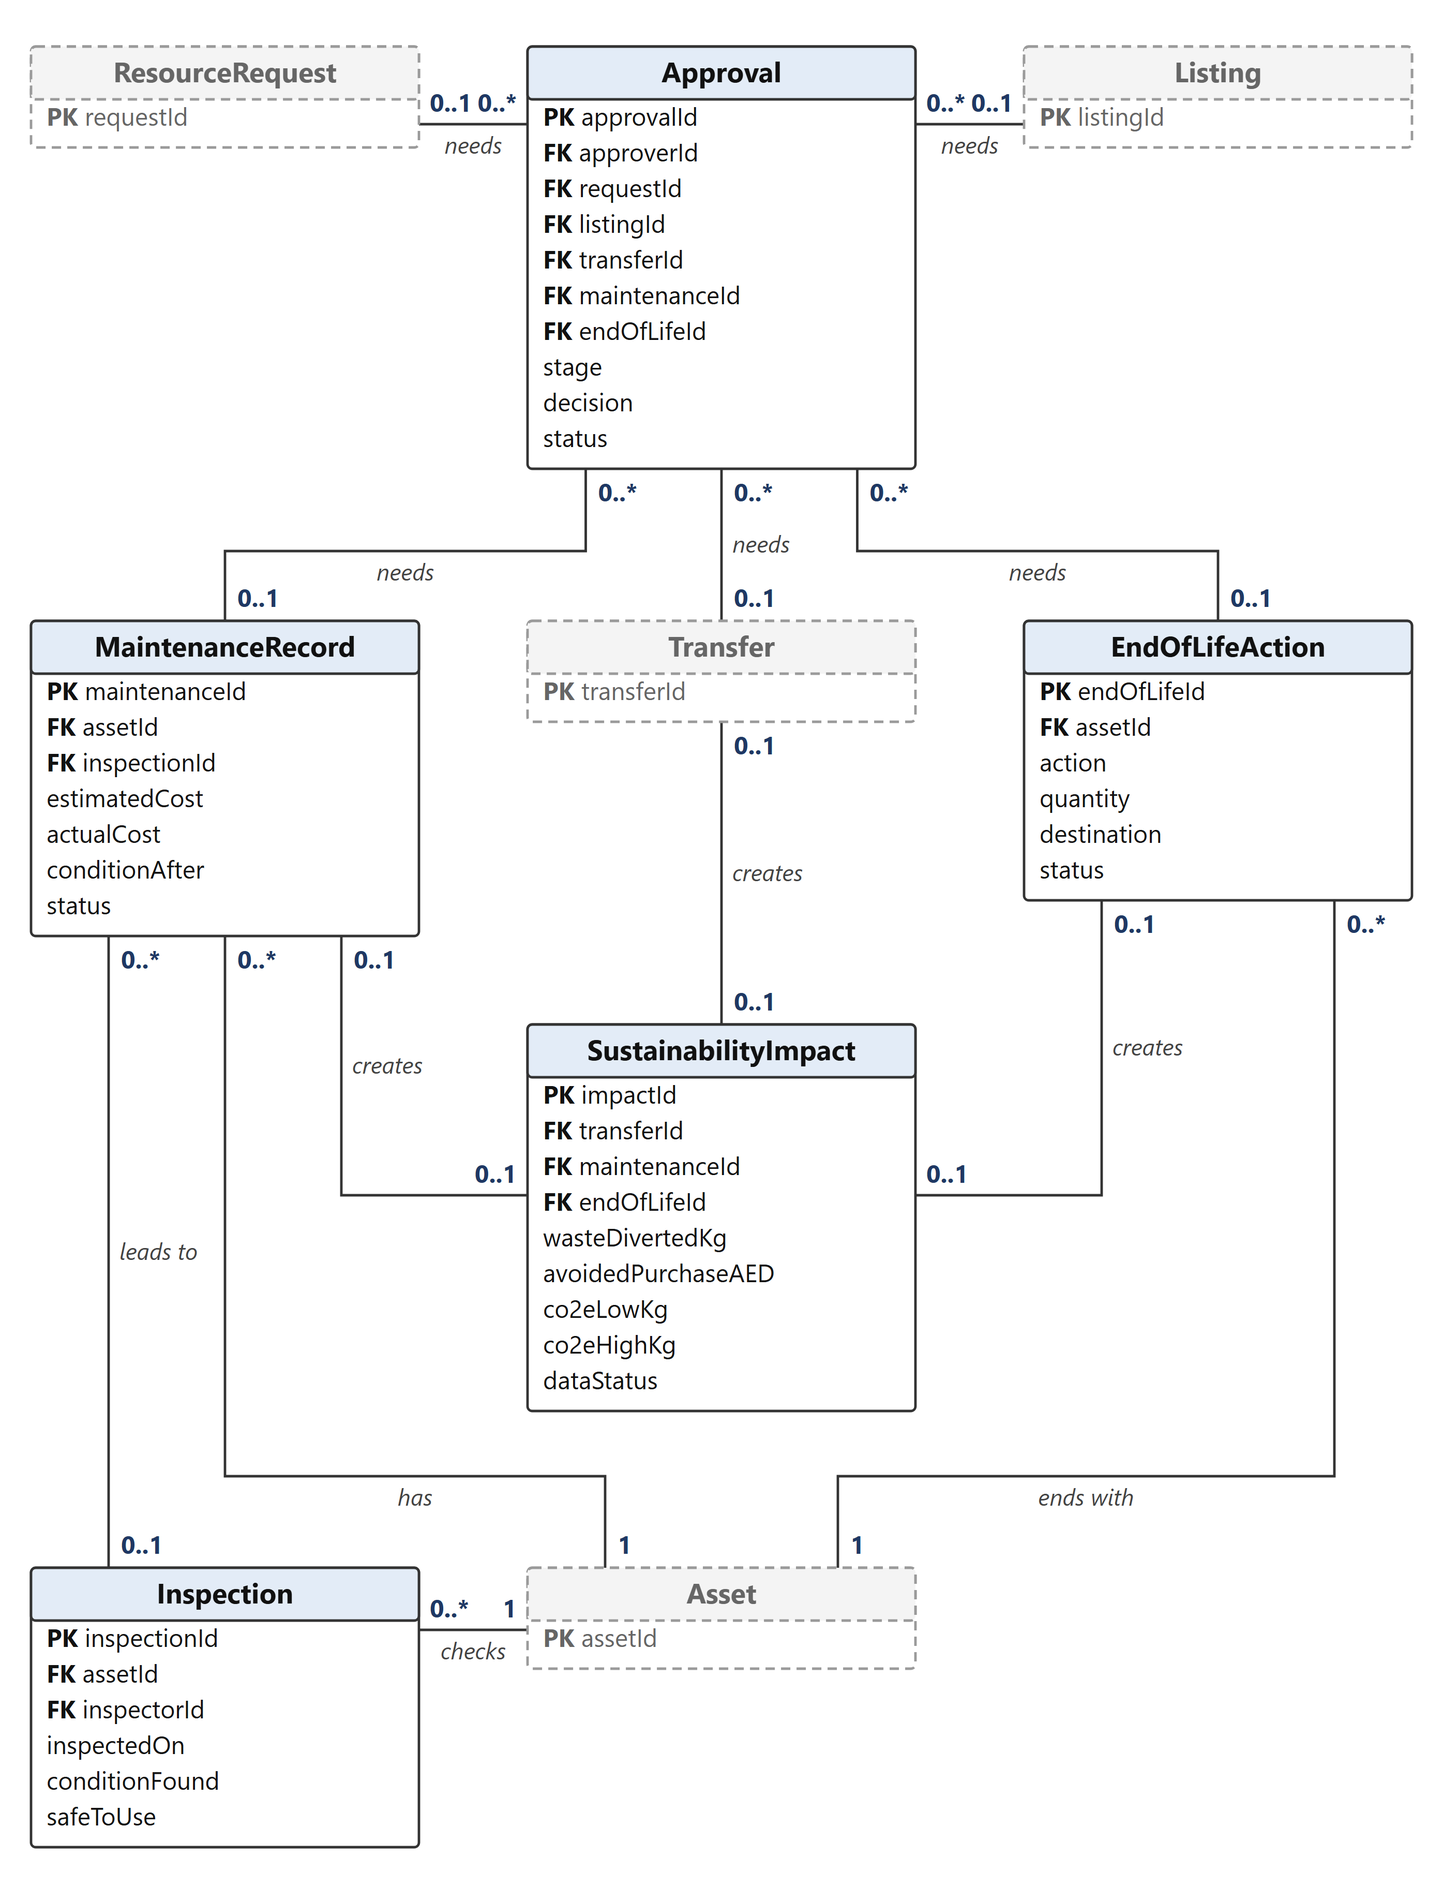
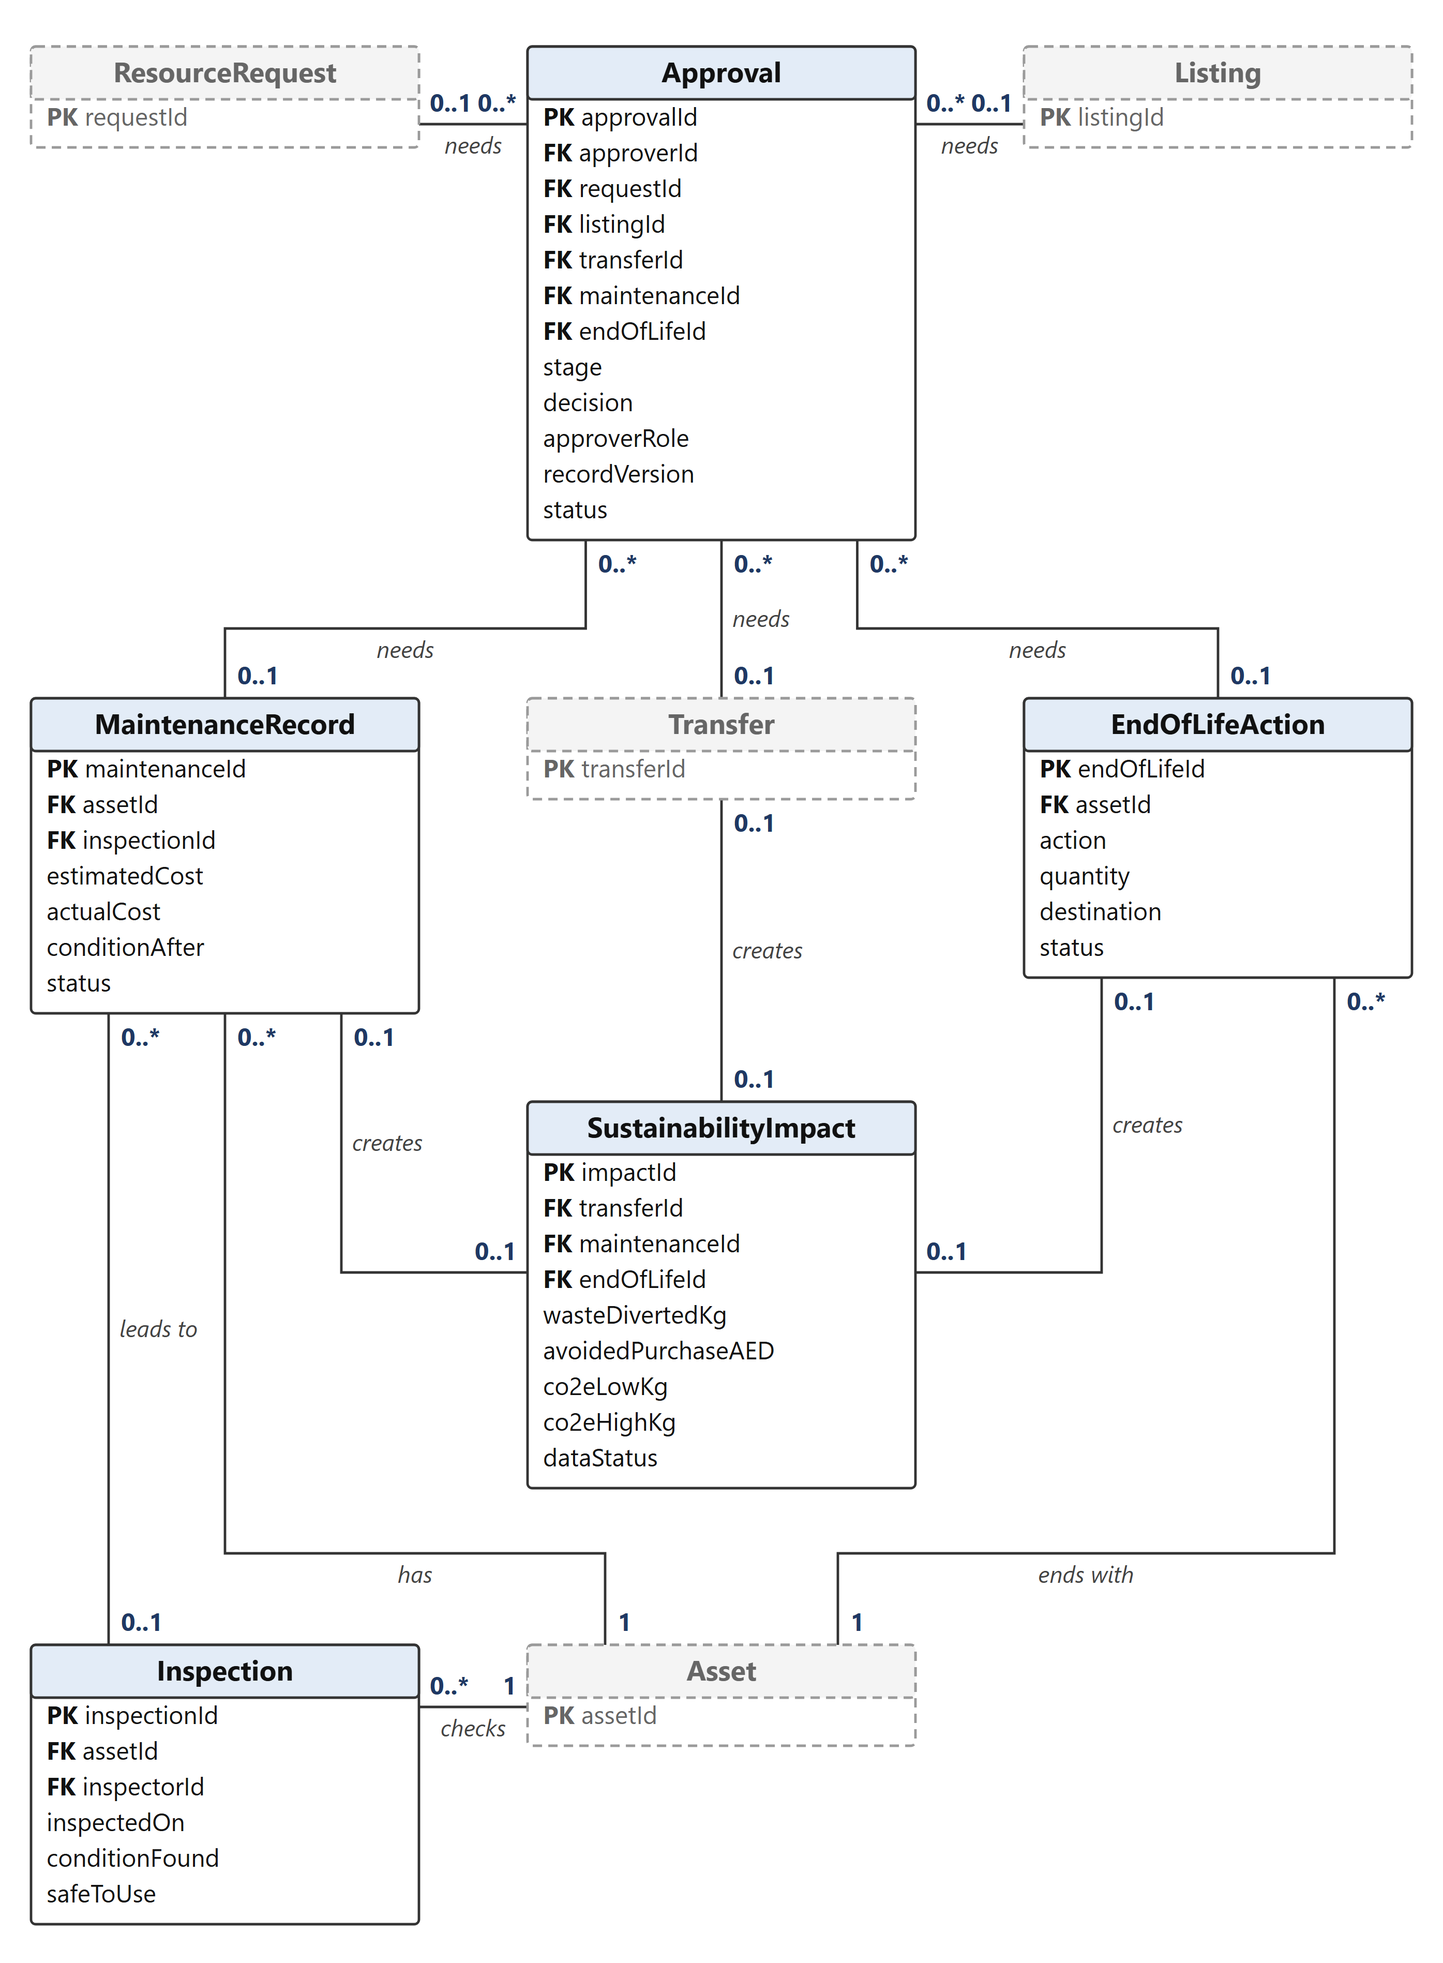
docs(phase45): add the missing data fields to the ER design (section 8)

diff --git a/docs/phase45/diagrams/er-diagrams.js b/docs/phase45/diagrams/er-diagrams.js
@@ -129,7 +129,7 @@ const ref = (name, x, y, pk, w) => box(name, x, y, ["PK " + pk], { ref: true, w 
   const A = ref("Asset", K4, 30, "assetId", WW);
   const N = box("Notification", K1, 300, ["PK notificationId", "FK userId", "recordType", "recordId", "message", "sentAt", "readAt"], { w: WW });
   const U = box("User", K2, 300, ["PK userId", "FK departmentId", "name", "email", "accountStatus"], { w: WW });
-  const AL = box("AuditLog", K1, 640, ["PK auditId", "FK userId", "action", "recordType", "recordId", "createdAt"], { w: WW });
+  const AL = box("AuditLog", K1, 640, ["PK auditId", "FK userId", "role", "action", "recordType", "recordId", "beforeValue", "afterValue", "reason", "createdAt"], { w: WW });
   const R = ref("ResourceRequest", K2, 640, "requestId", WW);
   const T = ref("Transfer", K3, 640, "transferId", WW);
   const Ap = ref("Approval", K4, 640, "approvalId", WW);
@@ -150,7 +150,7 @@ const ref = (name, x, y, pk, w) => box(name, x, y, ["PK " + pk], { ref: true, w 
 
 // ---------- Figure 8.3: assets, requests and matching ----------
 {
-  const Cat = box("Category", C2, 30, ["PK categoryId", "name", "unit", "emissionFactor"]);
+  const Cat = box("Category", C2, 30, ["PK categoryId", "name", "unit", "emissionFactorLow", "emissionFactorHigh"]);
   const A = box("Asset", C1, 240, ["PK assetId", "FK ownerDepartmentId", "FK categoryId", "FK custodianId", "name", "condition", "status", "quantity", "location (composite)", "assetAge (derived)"]);
   const MV = box("ModelVersion", C2, 240, ["PK modelVersionId", "task", "modelName", "version"]);
   const R = box("ResourceRequest", C3, 240, ["PK requestId", "FK requesterId", "FK categoryId", "quantity", "requiredBy", "status"]);
@@ -176,28 +176,28 @@ const ref = (name, x, y, pk, w) => box(name, x, y, ["PK " + pk], { ref: true, w 
 // ---------- Figure 8.4: approvals, maintenance and end of life ----------
 {
   const R = ref("ResourceRequest", C1, 30, "requestId");
-  const Ap = box("Approval", C2, 30, ["PK approvalId", "FK approverId", "FK requestId", "FK listingId", "FK transferId", "FK maintenanceId", "FK endOfLifeId", "stage", "decision", "status"]);
+  const Ap = box("Approval", C2, 30, ["PK approvalId", "FK approverId", "FK requestId", "FK listingId", "FK transferId", "FK maintenanceId", "FK endOfLifeId", "stage", "decision", "approverRole", "recordVersion", "status"]);
   const L = ref("Listing", C3, 30, "listingId");
-  const MR = box("MaintenanceRecord", C1, 400, ["PK maintenanceId", "FK assetId", "FK inspectionId", "estimatedCost", "actualCost", "conditionAfter", "status"]);
-  const T = ref("Transfer", C2, 400, "transferId");
-  const EL = box("EndOfLifeAction", C3, 400, ["PK endOfLifeId", "FK assetId", "action", "quantity", "destination", "status"]);
-  const SI = box("SustainabilityImpact", C2, 660, ["PK impactId", "FK transferId", "FK maintenanceId", "FK endOfLifeId", "wasteDivertedKg", "avoidedPurchaseAED", "co2eLowKg", "co2eHighKg", "dataStatus"]);
-  const I = box("Inspection", C1, 1010, ["PK inspectionId", "FK assetId", "FK inspectorId", "inspectedOn", "conditionFound", "safeToUse"]);
-  const A = ref("Asset", C2, 1010, "assetId");
+  const MR = box("MaintenanceRecord", C1, 450, ["PK maintenanceId", "FK assetId", "FK inspectionId", "estimatedCost", "actualCost", "conditionAfter", "status"]);
+  const T = ref("Transfer", C2, 450, "transferId");
+  const EL = box("EndOfLifeAction", C3, 450, ["PK endOfLifeId", "FK assetId", "action", "quantity", "destination", "status"]);
+  const SI = box("SustainabilityImpact", C2, 710, ["PK impactId", "FK transferId", "FK maintenanceId", "FK endOfLifeId", "wasteDivertedKg", "avoidedPurchaseAED", "co2eLowKg", "co2eHighKg", "dataStatus"]);
+  const I = box("Inspection", C1, 1060, ["PK inspectionId", "FK assetId", "FK inspectorId", "inspectedOn", "conditionFound", "safeToUse"]);
+  const A = ref("Asset", C2, 1060, "assetId");
   const sib = bottom(SI) + 42;
   svg("erd-approvals-lifecycle.svg", 930, bottom(I) + 25, [R, Ap, L, MR, T, EL, SI, I, A], [
     { a: "ResourceRequest", as: "right", af: { abs: 80 }, b: "Approval", bs: "left", bf: { abs: 80 }, ca: "0..1", cb: "0..*", name: "needs" },
     { a: "Listing", as: "left", af: { abs: 80 }, b: "Approval", bs: "right", bf: { abs: 80 }, ca: "0..1", cb: "0..*", name: "needs" },
     { a: "Transfer", as: "top", af: 0.5, b: "Approval", bs: "bottom", bf: 0.5, ca: "0..1", cb: "0..*", name: "needs" },
-    { a: "MaintenanceRecord", as: "top", af: 0.5, b: "Approval", bs: "bottom", bf: 0.15, mid: 355, ca: "0..1", cb: "0..*", name: "needs", seg: 1 },
-    { a: "EndOfLifeAction", as: "top", af: 0.5, b: "Approval", bs: "bottom", bf: 0.85, mid: 355, ca: "0..1", cb: "0..*", name: "needs", seg: 1 },
+    { a: "MaintenanceRecord", as: "top", af: 0.5, b: "Approval", bs: "bottom", bf: 0.15, mid: 405, ca: "0..1", cb: "0..*", name: "needs", seg: 1 },
+    { a: "EndOfLifeAction", as: "top", af: 0.5, b: "Approval", bs: "bottom", bf: 0.85, mid: 405, ca: "0..1", cb: "0..*", name: "needs", seg: 1 },
     { a: "Transfer", as: "bottom", af: 0.5, b: "SustainabilityImpact", bs: "top", bf: 0.5, ca: "0..1", cb: "0..1", name: "creates" },
-    { a: "MaintenanceRecord", as: "bottom", af: 0.8, b: "SustainabilityImpact", bs: "left", bf: { abs: 770 }, ca: "0..1", cb: "0..1", name: "creates", seg: 0 },
-    { a: "EndOfLifeAction", as: "bottom", af: 0.2, b: "SustainabilityImpact", bs: "right", bf: { abs: 770 }, ca: "0..1", cb: "0..1", name: "creates", seg: 0 },
+    { a: "MaintenanceRecord", as: "bottom", af: 0.8, b: "SustainabilityImpact", bs: "left", bf: { abs: 820 }, ca: "0..1", cb: "0..1", name: "creates", seg: 0 },
+    { a: "EndOfLifeAction", as: "bottom", af: 0.2, b: "SustainabilityImpact", bs: "right", bf: { abs: 820 }, ca: "0..1", cb: "0..1", name: "creates", seg: 0 },
     { a: "Inspection", as: "top", af: 0.2, b: "MaintenanceRecord", bs: "bottom", bf: 0.2, ca: "0..1", cb: "0..*", name: "leads to" },
     { a: "Asset", as: "top", af: 0.2, b: "MaintenanceRecord", bs: "bottom", bf: 0.5, mid: sib, ca: "1", cb: "0..*", name: "has", seg: 1 },
     { a: "Asset", as: "top", af: 0.8, b: "EndOfLifeAction", bs: "bottom", bf: 0.8, mid: sib, ca: "1", cb: "0..*", name: "ends with", seg: 1 },
-    { a: "Asset", as: "left", af: { abs: 1050 }, b: "Inspection", bs: "right", bf: { abs: 1050 }, ca: "1", cb: "0..*", name: "checks" },
+    { a: "Asset", as: "left", af: { abs: 1100 }, b: "Inspection", bs: "right", bf: { abs: 1100 }, ca: "1", cb: "0..*", name: "checks" },
   ]);
 }
 

diff --git a/docs/phase45/sections/08-sultan-data-model.md b/docs/phase45/sections/08-sultan-data-model.md
@@ -8,7 +8,7 @@ Figure 8.1 is the core ER diagram from the lab ("ER solution: core entities"). W
 
 ![Figure 8.1 Core ER diagram (from the lab)](images/erd-core.png)
 
-Figures 8.2 to 8.5 show the full design. We split it into four parts so it is easy to read. Grey dashed boxes belong to another part and only show where a link goes.
+Figures 8.2 to 8.5 show the full design with every entity, key and relationship and the main attributes. Table 8.2 lists every attribute. We split it into four parts so it is easy to read. Grey dashed boxes belong to another part and only show where a link goes.
 
 ![Figure 8.2 Users, roles and access](images/erd-users.png)
 
@@ -20,10 +20,11 @@ Figures 8.2 to 8.5 show the full design. We split it into four parts so it is ea
 
 These design choices explain the diagrams:
 
-- **One approval belongs to one record.** An approval is for a request, a listing, a transfer, a maintenance record or an end-of-life action. Only one of these five keys is filled in each approval. Attachment works the same way with its five owner keys. We use real foreign keys here, not a record type and an ID, so the database itself checks every link. Notification and AuditLog use recordType and recordId instead, because they can point to any table and no rule depends on them.
+- **One approval belongs to one record.** An approval is for a request, a listing, a transfer, a maintenance record or an end-of-life action. Only one of these five keys is filled in each approval. Attachment works the same way with its five owner keys. We use real foreign keys here, not a record type and an ID, so the database itself checks every link. Notification and AuditLog use recordType and recordId instead, because they can point to any table and no rule depends on them. The other stages in SRS Table 5.2 are kept on their own records: a role assignment in UserRole.status, the confirmation of a new asset in its state and verifiedOn, a hold in Reservation.status, and the owners' review of an official report in AuditLog, with AI report drafts also kept in AiSuggestion.
 - **One impact comes from one action.** Each sustainability impact comes from exactly one completed transfer, repair or end-of-life action. It keeps the carbon saving as a low and a high value, because the factors we use give a range (section 12).
 - **Several roles per user.** A user can hold several roles in different departments through UserRole. This is how one person can be a requester in one department and a custodian in another (SRS section 2.3).
-- **Who did what.** Most actions are kept in AuditLog with the person who did them, so most tables do not need a "done by" key. We keep a direct key only where the SRS asks for it: the requester, the custodian, the final approver, the receiving custodian (FR-11.1) and the inspector (FR-12.1). Entries made by the system itself have no user, which is why AuditLog has 0..1 on the user side.
+- **Who did what.** Most actions are kept in AuditLog with the person who did them, so most tables do not need a "done by" key. We keep a direct key only where the SRS asks for it: the requester, the custodian, the final approver, the receiving custodian (FR-11.1) and the inspector (FR-12.1). Entries made by the system itself have no user, which is why AuditLog has 0..1 on the user side. AuditLog also keeps the role that was used (FR-18.1) and the reviewer who confirms an avoided purchase (BR-18, SU-03).
+- **Versions.** Each request, listing, transfer, repair and end-of-life action keeps a version number. An approval stores the version it was given for and the approver's role, so a decision on an older version is refused (FR-10.6, FR-10.7).
 - **The final approver.** approverId in Transfer is the user who gave the final approval. Every stage before it is stored in Approval, following Table 5.2 of the SRS.
 - **Transfer details.** Transfer records the releasing and receiving departments, the receiving custodian, the new location, the planned date and the delivery arrangement (FR-11.1). It also keeps assetId and requestId, which its Reservation already links to. These are copies for fast lookup, and they must match the reservation. The lab diagram has them too.
 - **AI suggestions.** Every AI output that is not a match is kept in AiSuggestion: category suggestions, sustainable-action advice, assistant answers and report drafts. Each row keeps its confidence, explanation, model version and the user's response (AI-12). assetId is filled only when the suggestion is about one asset.
@@ -98,20 +99,20 @@ Table 8.2 describes each entity. Every entity has its own ID as the primary key,
 | User | A staff account. | name, email, accountStatus (active, inactive or blocked) | FR-01, FR-02 |
 | Role | One of the nine roles in SRS section 2.3. | name | FR-01, SRS 2.3 |
 | UserRole | A role given to a user for one department. | status (requested, authorised, active or removed) | FR-01, BR-01 |
-| Category | A type of item, such as office chair or monitor. | name, subcategory, unit, procurementControlled, specialHandling, emissionFactor (kg CO2e per unit), factorSource | FR-03.2, FR-03.4, SU-07 |
-| Asset | One registered item or batch of the same item. | name, description, condition (New, Good, Fair, Poor or Not working), status (AS-01 to AS-10), quantity, availableQty, reservedQty, location (campus, building and room), value, purchaseDate, verifiedOn, assetAge (worked out, not stored) | FR-04.1, FR-05 |
-| Listing | An offer of an asset for reuse by other departments. | quantity, availableFrom, restrictions, releaseReason, status (LS-01 to LS-06) | FR-06.1 |
-| ResourceRequest | A department's need for an item. | purpose, specifications, quantity, minCondition, urgency, deliveryLocation, requiredBy, status (RQ-01 to RQ-10) | FR-07.1, FR-07.9 |
+| Category | A type of item, such as office chair or monitor. | name, subcategory, unit, procurementControlled, specialHandling, emissionFactorLow and emissionFactorHigh (kg CO2e per unit), factorSource, factorVersion | FR-03.2, FR-03.4, SU-07 |
+| Asset | One registered item or batch of the same item. | name, description, condition (New, Good, Fair, Poor or Not working), status (AS-01 to AS-10), quantity, availableQty, reservedQty, allocatedQty, specifications, location (campus, building and room), value, purchaseDate, verifiedOn, plannedRetirementDate, revisedRetirementDate, version; serialNumber and storesData for IT assets; material and dimensions for furniture; assetAge (worked out, not stored) | FR-04.1, FR-05, SU-06, BR-09 |
+| Listing | An offer of an asset for reuse by other departments. | quantity, availableFrom, restrictions, releaseReason, version, status (LS-01 to LS-06) | FR-06.1 |
+| ResourceRequest | A department's need for an item. | purpose, specifications, quantity, minCondition, urgency, deliveryLocation, requiredBy, version, status (RQ-01 to RQ-10) | FR-07.1, FR-07.9 |
 | Reservation | A short hold on a listing for one request. | quantity, expiresAt, status (RV-01 to RV-06) | FR-09.1, BR-12 |
-| MatchRecommendation | One ranked match between a request and an asset. | score (0 to 100), confidence (0 to 1), explanation, userResponse (accepted, rejected or overridden), overrideReason | AI-04, AI-05, AI-12 |
+| MatchRecommendation | One ranked match between a request and an asset. | score (0 to 100), confidence (0 to 1), explanation, userResponse (accepted, rejected or overridden), overrideReason, createdAt | AI-04, AI-05, AI-12 |
 | AiSuggestion | Any other AI output and the user's answer to it. | task (classification, advice, assistant or report), suggestion, confidence (0 to 1), explanation, userResponse, correctedValue, createdAt | AI-01, AI-06, AI-07, AI-09, AI-12 |
 | ModelVersion | The AI model used for a task. | task, modelName, version, activeFrom | AI-12.1 |
-| Transfer | The move of an asset from one department to another. | quantity, toLocation, plannedDate, deliveryArrangement (collection or delivery), status (TR-01 to TR-09), handedOverAt, receivedAt, disputeNote | FR-11.1, BR-13 |
-| Approval | One approval stage for one record. | stage (Table 5.2 of the SRS), decision, reason, decidedAt, status (AT-01 to AT-05) | FR-10, BR-02 |
+| Transfer | The move of an asset from one department to another. | quantity, toLocation, plannedDate, deliveryArrangement (collection or delivery), transferCostAED, vanTrips, distanceKm, version, status (TR-01 to TR-09), handedOverAt, receivedAt, disputeNote | FR-11.1, BR-13 |
+| Approval | One approval stage for one record. | stage (a request, listing, transfer, repair or end-of-life stage of SRS Table 5.2), decision, reason, approverRole, recordVersion, decidedAt, status (AT-01 to AT-05) | FR-10, BR-02 |
 | Inspection | A check of an asset's condition and safety. | inspectedOn, conditionFound, safeToUse, findings, followUp | FR-12.1 |
-| MaintenanceRecord | A repair work order. | defect, estimatedCost, actualCost, parts, labourHours, outcome, conditionAfter, status (MW-01 to MW-09) | FR-13.4 |
-| EndOfLifeAction | A decision to retain, donate, disassemble, recycle or dispose of an asset. | action, quantity, destination, reason, ehsConsulted, dataErased, status (EL-01 to EL-06) | FR-14.1, FR-14.5, BR-08 |
-| SustainabilityImpact | The benefit of one completed transfer, repair or end-of-life action. | wasteDivertedKg, avoidedPurchaseAED, co2eLowKg, co2eHighKg, factorVersion, dataStatus (measured, estimated or synthetic) | SU-01 to SU-09 |
+| MaintenanceRecord | A repair work order. | defect, estimatedCost, actualCost, parts, labourHours, outcome, conditionAfter, version, status (MW-01 to MW-09) | FR-13.4 |
+| EndOfLifeAction | A decision to retain, donate, disassemble, recycle or dispose of an asset. | action, quantity, destination, reason, ehsConsulted, dataErased, version, status (EL-01 to EL-06) | FR-14.1, FR-14.5, BR-08 |
+| SustainabilityImpact | The benefit of one completed transfer, repair or end-of-life action. | wasteDivertedKg, avoidedPurchaseAED, replacementCostAED, replacementCostSource, co2eLowKg, co2eHighKg, factorVersion, dataStatus (measured, estimated or synthetic) | SU-01 to SU-09 |
 | Attachment | One photo or document for one record. | fileName, fileType (JPG, PNG or PDF), sizeKB, storageKey, uploadedAt | FR-04.1, FR-11.1, FR-12.1 |
 | Notification | A message to one user about one record. | recordType, recordId, message, sentAt, readAt | FR-16 |
-| AuditLog | Who did what and when. Entries are never changed or deleted (BR-17). | action, recordType, recordId, beforeValue, afterValue, reason, createdAt | FR-18.1 |
+| AuditLog | Who did what and when. Entries are never changed or deleted (BR-17). | role, action, recordType, recordId, beforeValue, afterValue, reason, createdAt | FR-18.1, NFR-05 |
